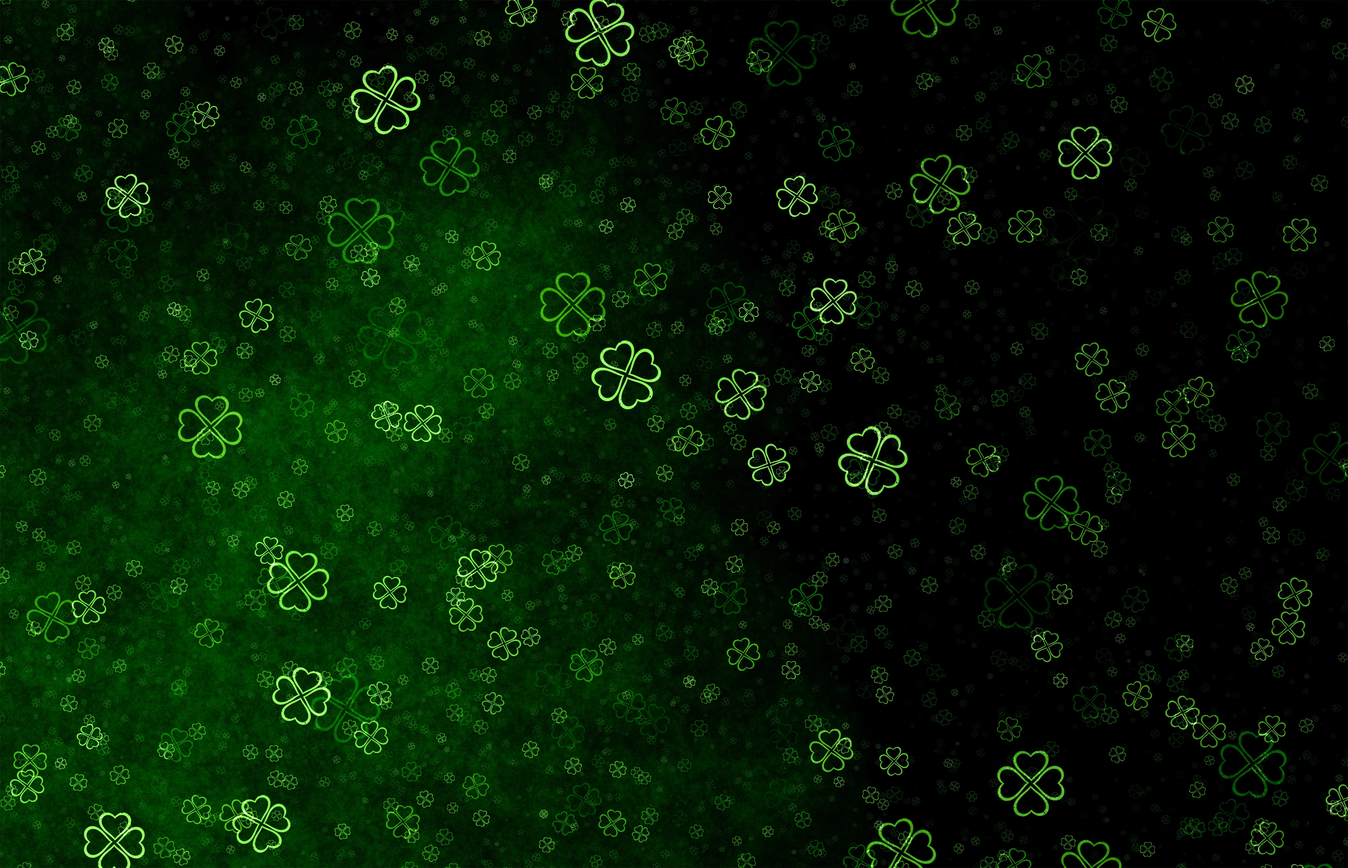
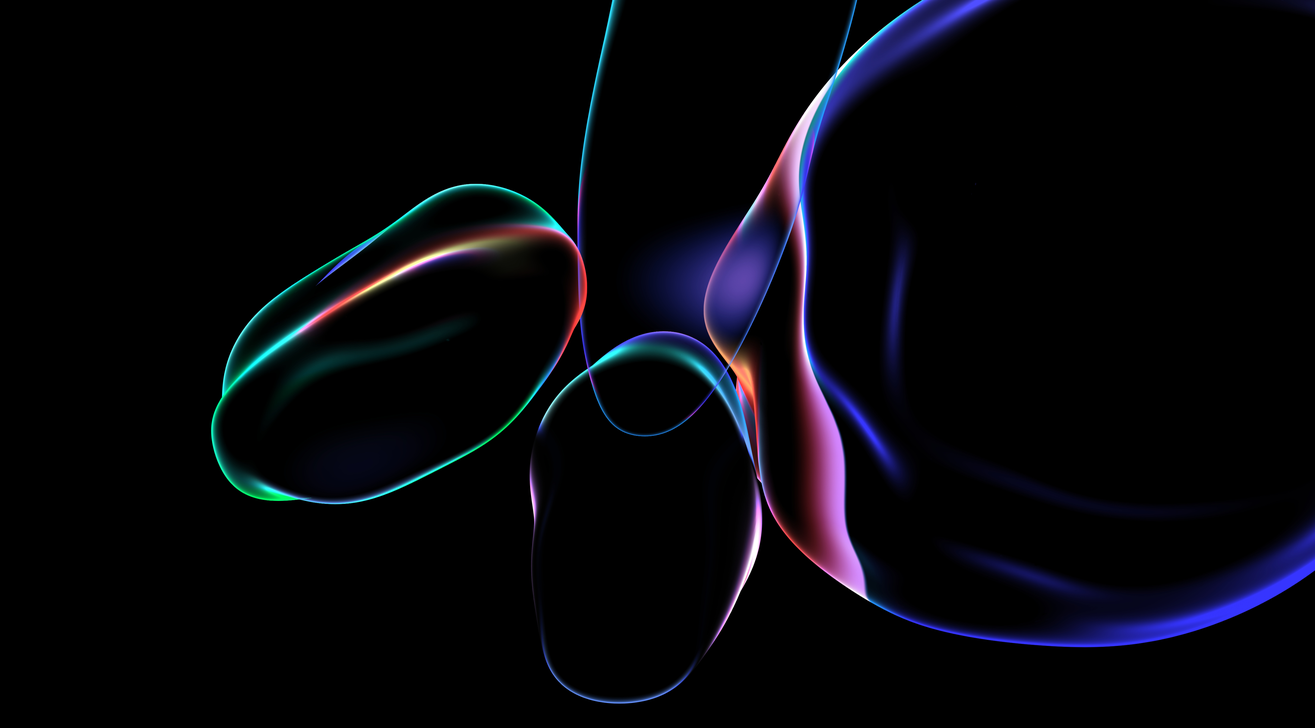
提交

diff --git a/app/learnwords/page.tsx b/app/learnwords/page.tsx
@@ -6,6 +6,7 @@ import type {
   CategoryInfo,
   MyCategoryContent,
 } from "@/types/course";
+import GlassBorder, { GlassWarp } from "@/components/courselearn/glass-border";
 import type { Key } from "@heroui/react";
 import {
   Books,
@@ -346,14 +347,16 @@ export default function LearnWordsPage() {
   ) => (
     <Accordion
       allowsMultipleExpanded
-      className="w-full overflow-hidden rounded-3xl  word-search-glass !bg-transparent"
+      className="w-full overflow-hidden rounded-3xl relative yinyinkuan cl-glass-idle"
       expandedKeys={expandedMap[menuMode]}
       onExpandedChange={(keys) =>
         setExpandedMap((prev) => ({ ...prev, [menuMode]: keys as Set<Key> }))
       }
     >
+
+      <GlassWarp/>
       <div
-        className="flex items-center gap-1.5 px-6 py-3 bg-white/15 dark:bg-black/15"
+        className="flex items-center relative z-[1]  gap-1.5 px-6 py-3 bg-white/15 dark:bg-black/15"
         onClick={() => collapseCategoryAccordion(menuMode)}
       >
         <button
@@ -458,6 +461,8 @@ export default function LearnWordsPage() {
             </Accordion.Panel>
           </Accordion.Item>
         ))}
+
+        <GlassBorder />
     </Accordion>
   );
 

diff --git a/components/courselearn/word-card.tsx b/components/courselearn/word-card.tsx
@@ -607,12 +607,12 @@ function WordCardInner(
           把边框后面的背景提亮提饱和透上来（仅默认态，避免干扰对错着色） */}
       {resultState === "idle" && <GlassWarp />}
 
-      {/* 内容层奶白底色：内缩 1.5px 避开描边环区，light:bg-white/15  dark:bg-black/10  dark:bg-[hsla(0,0%,50%,0.05)]!
+      {/* 内容层奶白底色：内缩 1.5px 避开描边环区，light:bg-white/15  dark:bg-black/10 dark:bg-white/5 dark:bg-[hsla(0,0%,50%,0.05)]!
           让边框环直接透出 warp 玻璃（更"裸透"的液态玻璃边框） */}
       {resultState === "idle" && (
         <span
           aria-hidden="true"
-          className="pointer-events-none absolute light:bg-white/15 dark:bg-white/5"
+          className="pointer-events-none absolute light:bg-white/15 "
           style={{ inset: "1px", borderRadius: "calc(1.5rem - 1px)" }}
         />
       )}

diff --git a/app/api/login/route.ts b/app/api/login/route.ts
@@ -7,7 +7,7 @@ import { NextRequest, NextResponse } from "next/server";
  * Next.js 16 的 rewrites 内部使用 undici，对自签名证书的 NODE_TLS_REJECT_UNAUTHORIZED=0
  * 不再生效，因此通过此 Route Handler 用 Node 原生 fetch 转发。
  */
-const BACKEND_URL = process.env.DOTNET_API_URL ?? "https://localhost:6121";
+const BACKEND_URL = process.env.DOTNET_API_URL ?? "https://localhost:53201";
 const AUTH_COOKIE = "auth_token";
 
 interface LoginProxyResponse {

diff --git a/styles/globals.css b/styles/globals.css
@@ -204,6 +204,8 @@
   -webkit-transform: none !important;
 }
 
+
+
 .cardfilter {
   position: relative;
   isolation: isolate;
@@ -391,7 +393,6 @@
   pointer-events: none; 
 }
 
-
 .dark .yinyinkuan:after {
     content: "";
   /* 暗色：极轻描边， 只比卡片背景略亮一点*/
@@ -406,6 +407,7 @@
   top: 0;
   border-radius: inherit;
   pointer-events: none;
+ 
 }
 
 /* 同样的玻璃描边给 Button / Chip / Input 等通用容器（按需扩展） */

diff --git a/app/api/[...path]/route.ts b/app/api/[...path]/route.ts
@@ -8,7 +8,7 @@ import { NextRequest, NextResponse } from "next/server";
  *
  * 注意：更具体的路由（如 /api/login/route.ts）会优先匹配，本路由作为兜底。
  */
-const BACKEND_URL = process.env.DOTNET_API_URL ?? "https://localhost:6121";
+const BACKEND_URL = process.env.DOTNET_API_URL ?? "https://localhost:53201";
 
 /** 不应透传到后端的请求头 */
 const HOP_BY_HOP = new Set([

diff --git a/components/courselearn/glass-border.tsx b/components/courselearn/glass-border.tsx
@@ -43,7 +43,7 @@ export function GlassWarp({ blurPx = 8, saturation = 150 }: GlassWarpProps) {
   return (
     <span
       aria-hidden="true"
-      className="pointer-events-none absolute inset-0"
+      className="pointer-events-none absolute inset-0 dark:bg-white/5"
       style={{
         borderRadius: "inherit",
         WebkitBackdropFilter: backdrop,
